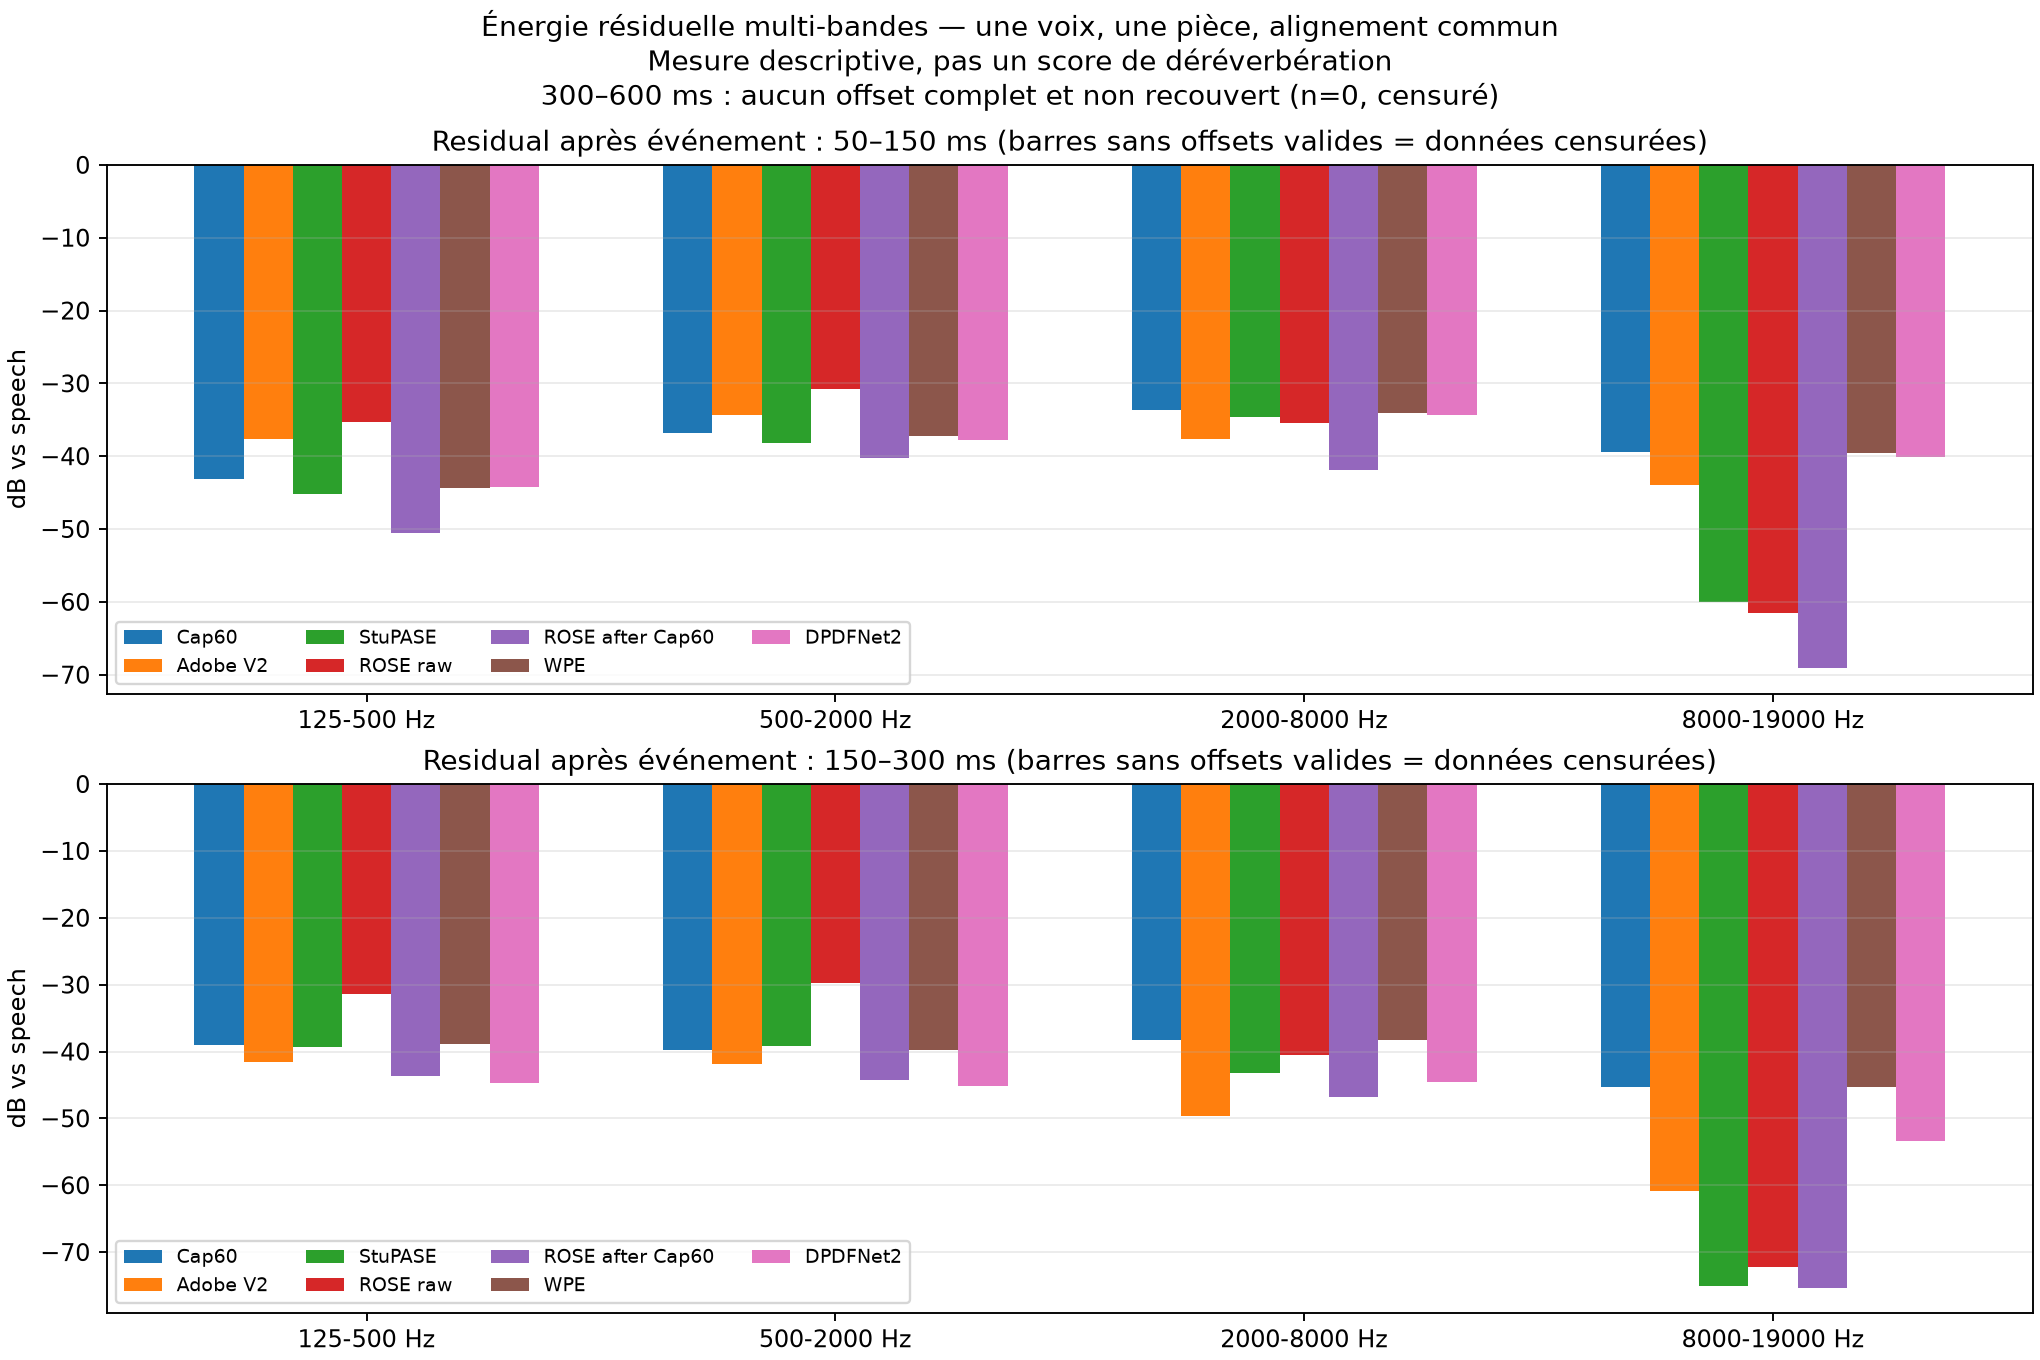
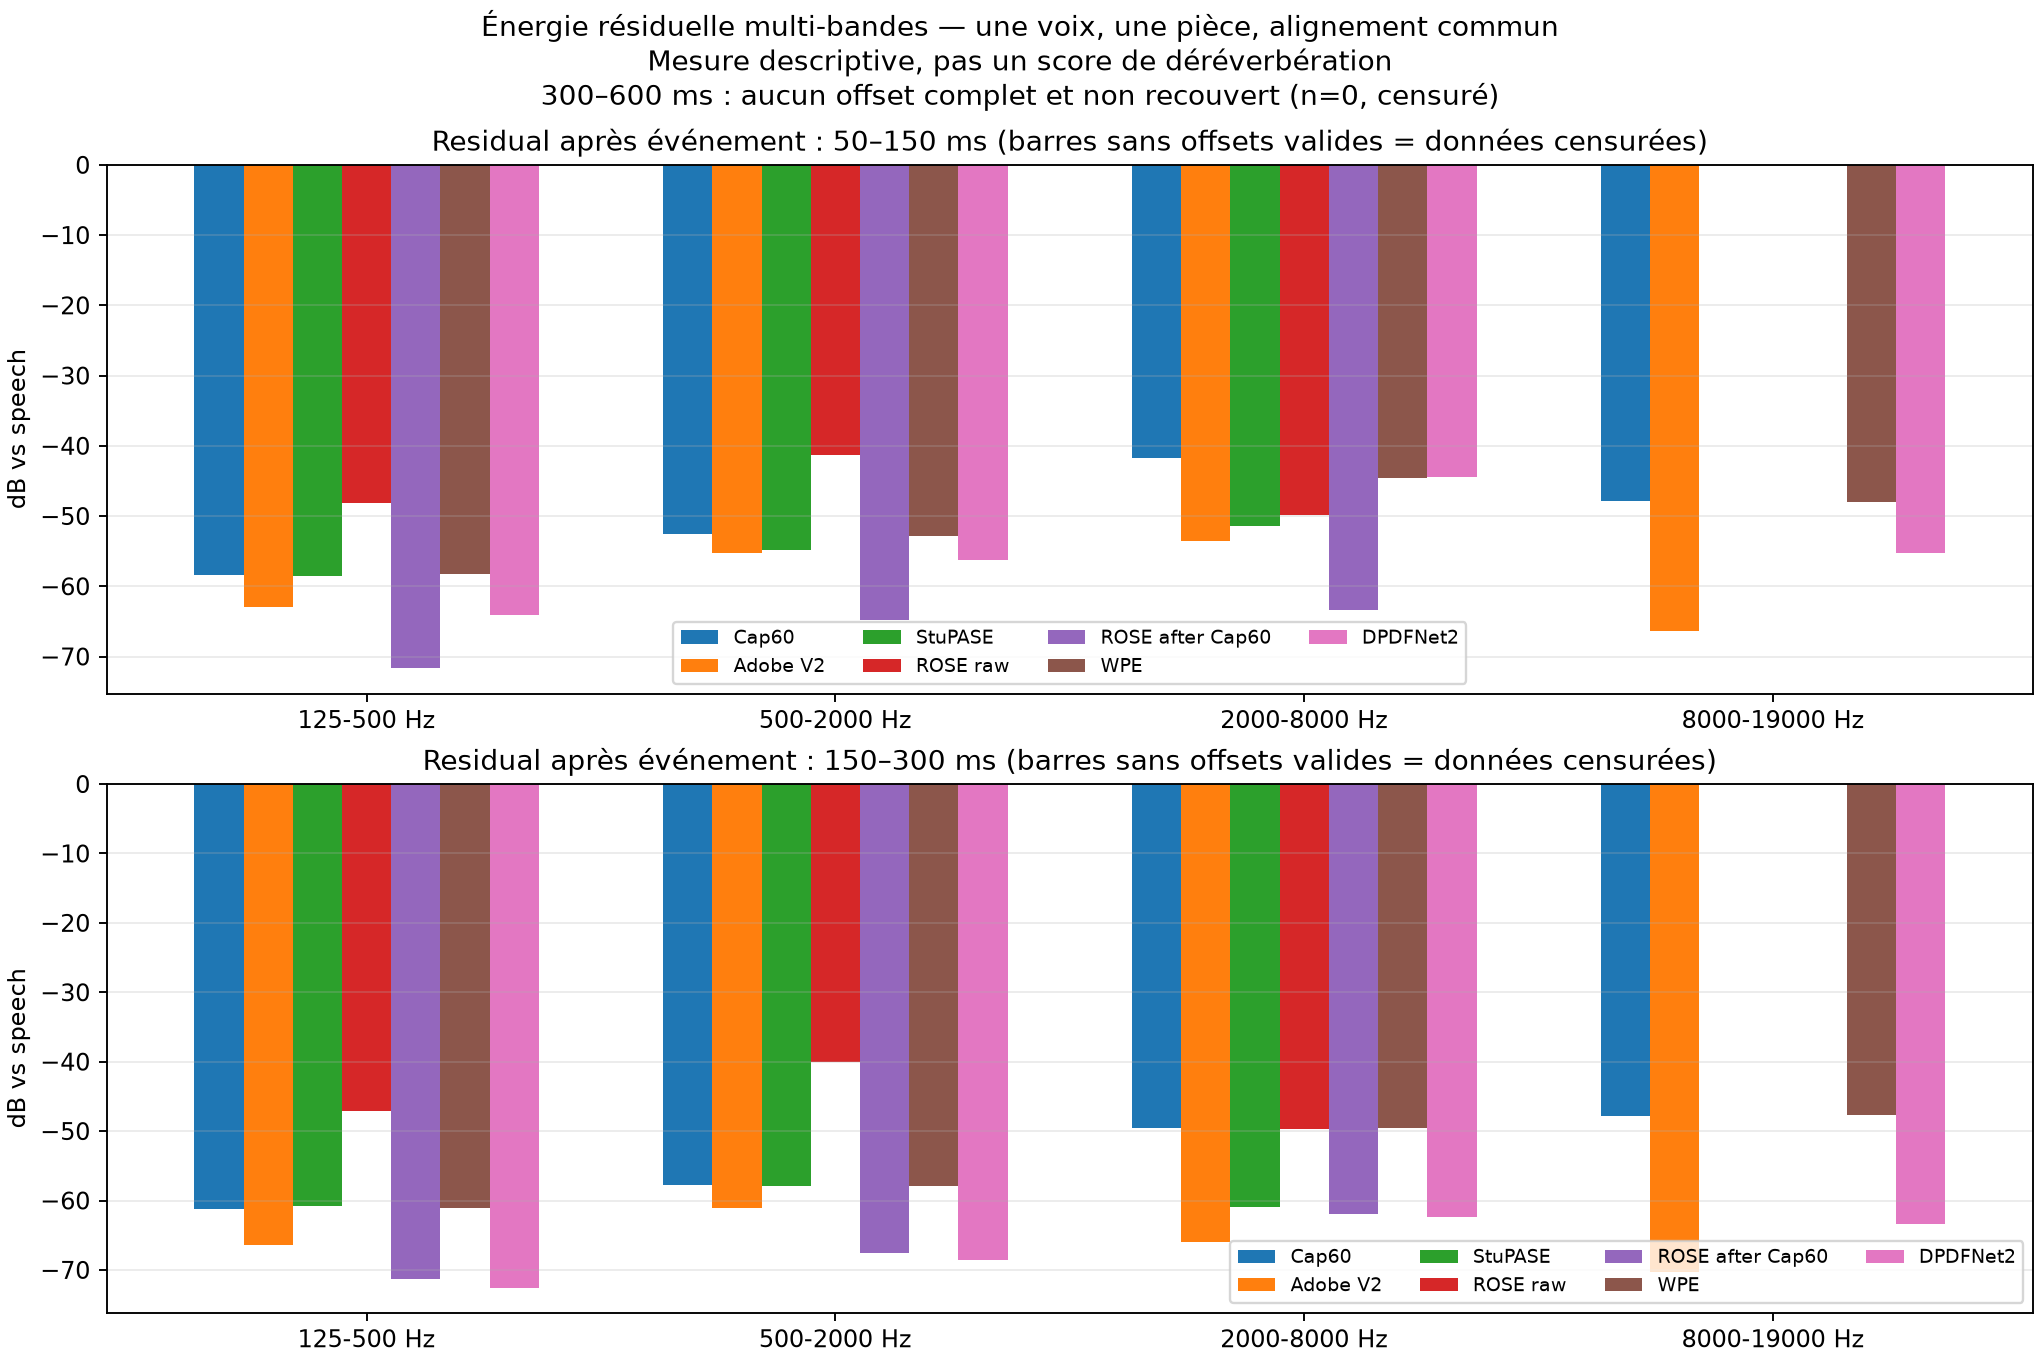
fix(audio): align room audit to raw input

diff --git a/scripts/benchmarks/universal_enhancer/analyze_model_family_room_perception.py b/scripts/benchmarks/universal_enhancer/analyze_model_family_room_perception.py
@@ -21,6 +21,7 @@ from scipy.signal import butter, sosfiltfilt
 
 ROOT = Path(__file__).resolve().parents[3]
 PACK = ROOT / "results/user-recording-test-2026-10-09/model-family-comparison-02"
+INPUT = ROOT / "results/user-recording-test-2026-10-09/01_input_mono_48k.wav"
 OUT = PACK
 RATE = 48_000
 FRAME = 960  # 20 ms
@@ -38,10 +39,13 @@ FILES = {
     "WPE": "WPE.wav",
     "DPDFNet2": "DPDFNET2.wav",
 }
+# These engines were inferred at 16 kHz then resampled for the listening pack.
+NATIVE_BANDWIDTH_HZ = {"StuPASE": 8_000, "ROSE raw": 8_000, "ROSE after Cap60": 8_000}
 
 
-def read(name: str) -> np.ndarray:
-    x, sr = sf.read(PACK / name, dtype="float64")
+def read(name: str | Path) -> np.ndarray:
+    path = name if isinstance(name, Path) else PACK / name
+    x, sr = sf.read(path, dtype="float64")
     if sr != RATE:
         raise ValueError(f"{name}: expected {RATE} Hz, got {sr}")
     if x.ndim == 2:
@@ -75,11 +79,15 @@ def main() -> None:
     audio = {name: read(path) for name, path in FILES.items()}
     n = min(map(len, audio.values()))
     audio = {k: v[:n] for k, v in audio.items()}
+    activity_ref = read(INPUT)[:n]
+    if len(activity_ref) != n:
+        raise ValueError("raw input and listening-pack outputs are not sample-aligned")
     ref = audio["Cap60"]
     ref_env = frame_rms(ref)
-    active = ref_env > 0.035 * np.max(np.abs(ref))
+    activity_env = frame_rms(activity_ref)
+    active = activity_env > 0.035 * np.max(np.abs(activity_ref))
     ref_speech = float(np.sqrt(np.mean(ref_env[active] ** 2)))
-    events = events_from_reference(ref)
+    events = events_from_reference(activity_ref)
 
     # One fixed gain per output: common Cap60 activity mask, never a tail gain.
     matched: dict[str, np.ndarray] = {}
@@ -103,9 +111,11 @@ def main() -> None:
             b = min(n, end + round(wend_ms * RATE / 1000))
             complete = b - a == round((wend_ms - wstart_ms) * RATE / 1000)
             unoverlapped = next_start >= b
-            valid = complete and unoverlapped
+            valid_geometry = complete and unoverlapped
             for name, bands in filtered.items():
                 for band, x in bands.items():
+                    supported = not (band == "8000-19000Hz" and name in NATIVE_BANDWIDTH_HZ)
+                    valid = valid_geometry and supported
                     value = None
                     if valid:
                         value = float(20 * np.log10(max(np.sqrt(np.mean(x[a:b] ** 2)) / ref_speech, 1e-12)))
@@ -116,7 +126,11 @@ def main() -> None:
                         "window_ms": f"{wstart_ms}-{wend_ms}",
                         "band": band,
                         "valid": valid,
-                        "censor_reason": "" if valid else ("overlapped_by_next_speech" if complete else "file_ended_before_window"),
+                        "censor_reason": "" if valid else (
+                            "outside_native_bandwidth" if not supported else
+                            "overlapped_by_next_speech" if complete and not unoverlapped else
+                            "file_ended_before_window"
+                        ),
                         "post_event_rms_db_relative_to_common_speech": value,
                     })
 
@@ -139,10 +153,11 @@ def main() -> None:
         "scope": "single consumed recording; descriptive post-speech residual, not dereverberation ground truth",
         "input_pack": str(PACK.relative_to(ROOT)),
         "sample_rate_hz": RATE,
-        "speech_activity": "20 ms RMS > 3.5% of Cap60 sample peak; gaps up to 80 ms bridged; minimum event 100 ms",
-        "alignment_gain": "one constant per candidate matching RMS over the shared Cap60 active-frame mask",
+        "speech_activity": "20 ms RMS > 3.5% of raw-input sample peak; gaps up to 80 ms bridged; minimum event 100 ms",
+        "alignment_gain": "one constant per candidate matching RMS over the shared raw-input active-frame mask; common level reference is Cap60 active RMS",
         "windows_ms_after_event_end": WINDOWS_MS,
         "bands_hz": BANDS,
+        "native_bandwidth_hz": NATIVE_BANDWIDTH_HZ,
         "offsets": [{"event": i, "start_s": round(s / RATE, 4), "end_s": round(e / RATE, 4)} for i, (s, e) in enumerate(events, 1)],
         "limitations": [
             "Residual contains room response, noise, unvoiced speech, and model artifacts; there is no dry stem.",

diff --git a/docs/benchmarking/model-family-user-listening-feedback-2026-10-10.md b/docs/benchmarking/model-family-user-listening-feedback-2026-10-10.md
@@ -23,11 +23,13 @@ Une lecture diagnostique multi-offsets a été générée depuis les rendus exis
 
 | Fenêtre après événement | n | Cap60 | Adobe V2 | StuPASE | ROSE brut | ROSE après Cap60 | WPE | DPDFNet2 |
 |---|---:|---:|---:|---:|---:|---:|---:|---:|
-| 50–150 ms | 4 | −22,00 | −29,69 | −31,22 | −15,69 | −22,39 | −29,74 | −31,05 |
-| 150–300 ms | 2 | −20,22 | −28,55 | −28,61 | −15,28 | −19,78 | −26,82 | −36,42 |
+| 50–150 ms | 1 | −26,77 | −42,39 | −40,64 | −20,45 | −27,16 | −39,00 | −43,64 |
+| 150–300 ms | 1 | −26,49 | −42,48 | −42,78 | −19,00 | −26,64 | −39,45 | −58,51 |
 | 300–600 ms | 0 | censuré | censuré | censuré | censuré | censuré | censuré | censuré |
 
-La contradiction la plus instructive est conservée : DPDFNet2 est environ 16 dB plus bas que Cap60 dans les deux offsets mesurables entre 150 et 300 ms, mais il est perçu comme plus réverbérant. **La mesure ne classe donc pas la sensation entendue.** Une réduction d'énergie de pause ne prouve pas une suppression des réflexions précoces ou du filtrage en peigne pendant les phonèmes; un timbre artificiel peut même être perçu comme une pièce plus présente. Ces explications restent des hypothèses à départager, pas une attribution causale sur ce clip mono.
+La contradiction la plus instructive est conservée : DPDFNet2 est environ 32 dB plus bas que Cap60 sur l'unique offset mesurable entre 150 et 300 ms, mais il est perçu comme plus réverbérant. **La mesure ne classe donc pas la sensation entendue.** Une réduction d'énergie de pause ne prouve pas une suppression des réflexions précoces ou du filtrage en peigne pendant les phonèmes; un timbre artificiel peut même être perçu comme une pièce plus présente. Ces explications restent des hypothèses à départager, pas une attribution causale sur ce clip mono.
+
+Les bandes au-dessus de 8 kHz sont marquées comme non prises en charge pour StuPASE et ROSE-CD, exécutés à 16 kHz puis rééchantillonnés pour le pack. Le rééchantillonnage n'ajoute pas de contenu au-dessus de leur bande native; leurs niveaux HF ne sont donc pas rapportés comme des mesures comparables.
 
 ![Résidus multi-bandes après événements de parole](assets/model-family-room-residual-2026-10-10.png)
 
@@ -38,7 +40,7 @@ La contradiction la plus instructive est conservée : DPDFNet2 est environ 16 dB
 3. Ne faire une inférence avec un nouveau moteur qu'après avoir vérifié poids, provenance et licence. VoiceFixer est déjà cloné localement, mais son rapport antérieur note que le checkpoint téléchargé n'a pas satisfait le checksum annoncé; il ne doit pas être rechargé. StoRM est cloné, mais aucun checkpoint n'est présent localement et ses poids distribués séparément n'ont pas été audités. Aucun des deux n'est actuellement un candidat exécutable/promouvable.
 4. Pour établir une mesure causale des réflexions précoces et du traînage, prioriser des paires sèches/réverbérées connues et plusieurs réponses impulsionnelles, puis utiliser `test.wav` uniquement comme contrôle d'écoute déjà consommé. Sans stem sec, les métriques sans référence restent des indicateurs partiels.
 
-GPT Web a recommandé d'abandonner le RMS terminal comme score principal et de faire évoluer le protocole vers fenêtres multi-offsets, bandes fréquentielles, modulation temporelle (p. ex. SRMR) et écoute anonymisée. SRMR et l'indice de filtrage en peigne ne sont pas calculés dans cette première lecture. Les seuils de parole (20 ms RMS supérieur à 3,5 % du pic Cap60, événements séparés après fermeture de gaps de 80 ms) et le masque partagé rendent les sorties comparables ici, mais les échantillons restent seulement 4/2/0 événements selon la fenêtre.
+GPT Web a recommandé d'abandonner le RMS terminal comme score principal et de faire évoluer le protocole vers fenêtres multi-offsets, bandes fréquentielles, modulation temporelle (p. ex. SRMR) et écoute anonymisée. SRMR et l'indice de filtrage en peigne ne sont pas calculés dans cette première lecture. Les seuils de parole (20 ms RMS supérieur à 3,5 % du pic de l'entrée brute, événements séparés après fermeture de gaps de 80 ms) et le masque partagé rendent les sorties comparables ici. La réverbération présente dans l'entrée brute rend plusieurs pauses non mesurables selon la règle conservatrice; il reste seulement 1/1/0 offsets complets selon la fenêtre. Le nombre d'événements mesurables est trop faible pour une conclusion statistique.
 
 Le script reproductible est [`analyze_model_family_room_perception.py`](../../scripts/benchmarks/universal_enhancer/analyze_model_family_room_perception.py). Les CSV/JSON/PNG et WAV liés à l'enregistrement restent en local sous `results/` et ne sont pas ajoutés au dépôt.
 
